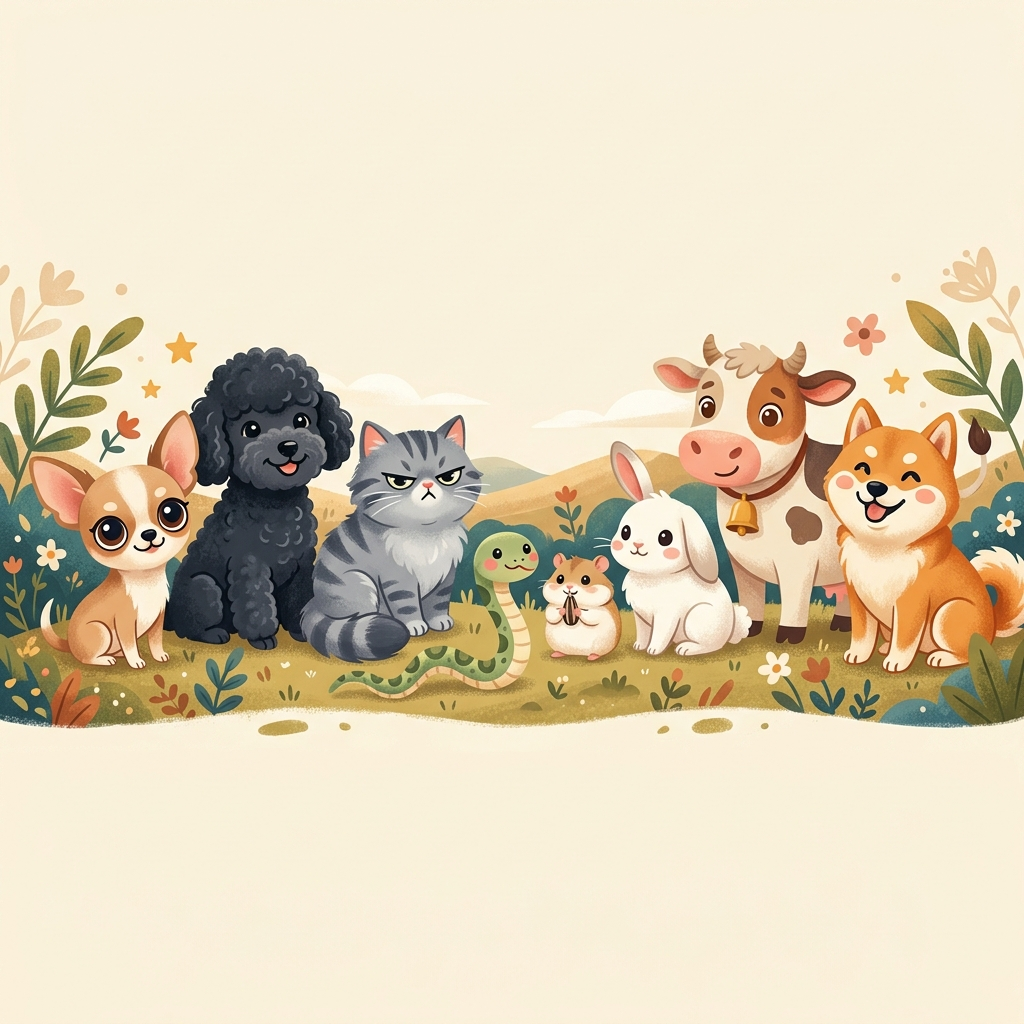
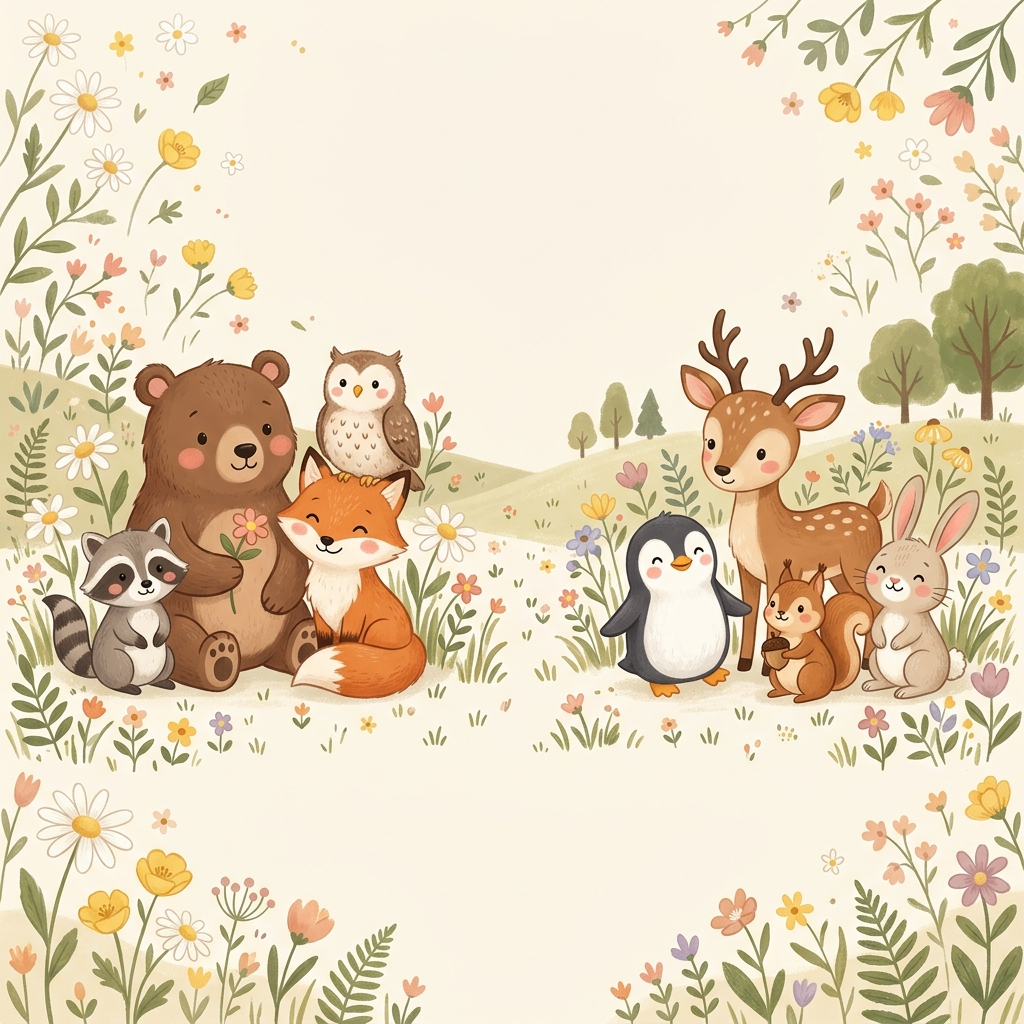
Add files via upload

diff --git a/index.html b/index.html
@@ -45,14 +45,11 @@
         <h1 class="intro-title" data-i18n="title">測測你的靈魂裡<br>住著哪種萌寵？</h1>
         <p class="intro-sub" data-i18n="subtitle">10個日常小情境，測出你最真實的可愛本性！<br>⚠ 準備好面對你的動物原型了嗎？</p>
         <div class="emoji-bar">
-          <img class="emoji-icon" src="result_chihuahua.png" alt="Chihuahua">
-          <img class="emoji-icon" src="result_poodle.png" alt="Poodle">
-          <img class="emoji-icon" src="result_shiba.png" alt="Shiba">
-          <img class="emoji-icon" src="result_cat.png" alt="Cat">
-          <img class="emoji-icon" src="result_snake.png" alt="Snake">
-          <img class="emoji-icon" src="result_hamster.png" alt="Hamster">
-          <img class="emoji-icon" src="result_rabbit.png" alt="Rabbit">
-          <img class="emoji-icon" src="result_cow.png" alt="Cow">
+          <span class="emoji-icon">🐶</span>
+          <span class="emoji-icon">🐱</span>
+          <span class="emoji-icon">🐰</span>
+          <span class="emoji-icon">🦊</span>
+          <span class="emoji-icon">🐻</span>
         </div>
         <button class="cta-btn" data-i18n="btn_start" onclick="startQuiz()">開始測驗</button>
       </div>

diff --git a/style.css b/style.css
@@ -178,17 +178,18 @@ body::after {
   flex-wrap: wrap;
   justify-content: center;
   gap: 12px;
-  max-width: 280px;
-  margin: 0 auto 30px auto;
+  margin-bottom: 30px;
 }
 .emoji-icon {
-  width: 56px;
-  height: 56px;
-  object-fit: cover;
+  width: 48px;
+  height: 48px;
+  display: flex;
+  align-items: center;
+  justify-content: center;
+  font-size: 1.5rem;
   background: var(--surface);
   border-radius: 50%;
-  padding: 3px;
-  box-shadow: 0 4px 12px rgba(0,0,0,0.1);
+  box-shadow: 0 4px 10px rgba(0,0,0,0.08);
   transition: transform 0.2s;
 }
 .emoji-icon:hover {
